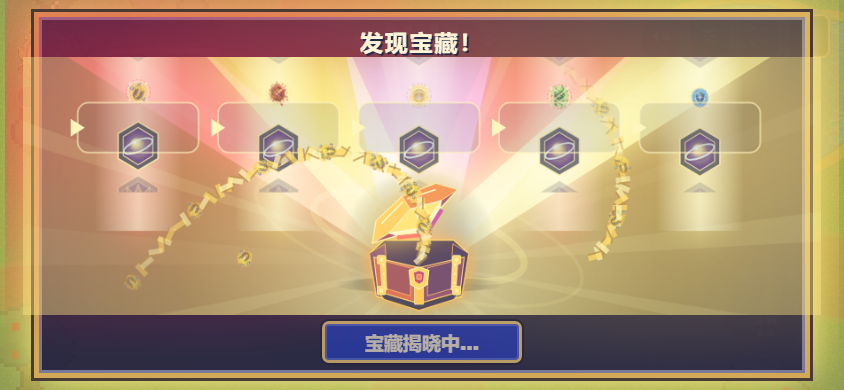
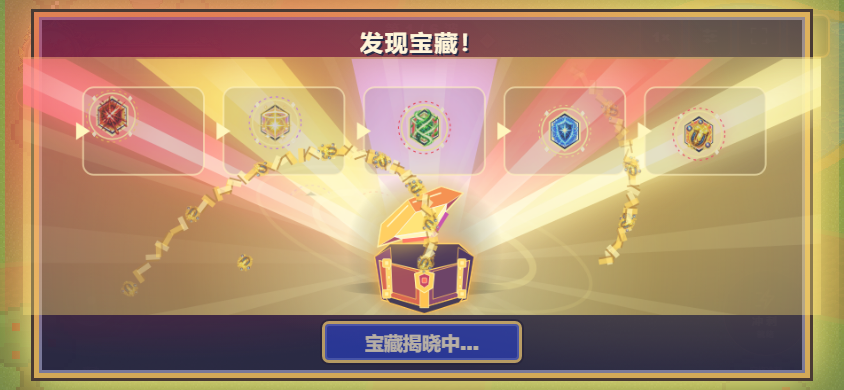
重新设计宝箱

diff --git a/src/treasure-canvas.ts b/src/treasure-canvas.ts
@@ -1,6 +1,6 @@
 import { treasurePresentation, type TreasureCue } from './treasure-presentation';
 // Adapted from the user-supplied astral-relics-reference-rebuild Canvas effect.
-export function createTreasureCanvas(canvas: HTMLCanvasElement, titles: string[], artUrls: (string | undefined)[] = [], modal = false, onCue: (cue: TreasureCue, index?: number) => void = () => {}) {
+export function createTreasureCanvas(canvas: HTMLCanvasElement, titles: string[], artUrls: (string | undefined)[] = [], modal = false, onCue: (cue: TreasureCue, index?: number) => void = () => {}, rollingItems: readonly {title:string;artUrl?:string}[] = []) {
 type Tier = 'COMMON' | 'RARE' | 'EPIC' | 'LEGENDARY';
 type IconKind = 'sword' | 'cross' | 'orb' | 'staff' | 'prism' | 'crown' | 'flame' | 'axe' | 'book' | 'shield';
 type Reward = { image?: HTMLImageElement; name: string; tier: Tier; icon: IconKind; color: string; bright: string; dark: string };
@@ -15,6 +15,12 @@ const laneColors = settings.count >= 3 ? ['#ff3158', '#ffca46', '#c967ff', '#ff2
 const CELL = 70;
 
 const rewards: Reward[] = titles.map((name, i) => ({ name, image: artUrls[i] ? Object.assign(new Image(), { src: artUrls[i] }) : undefined, tier: 'COMMON', icon: 'prism', color: laneColors[i], bright: '#fff4a0', dark: '#40117e' }));
+const imageCache=new Map<string,HTMLImageElement>();
+function shuffled<T>(items:readonly T[]):T[]{
+  const copy=[...items];
+  for(let i=copy.length-1;i>0;i--){const j=Math.floor(Math.random()*(i+1));[copy[i],copy[j]]=[copy[j],copy[i]];}
+  return copy;
+}
 
 
 function tierLabel(tier: Tier): string {
@@ -87,9 +93,17 @@ function burst(x: number, y: number, count: number, kind: ParticleKind, colors =
 function begin() {
   if (phase !== 'idle' && phase !== 'result') return;
   const times = stopTimes(selectedCount);
+  // Sample the full catalogue, but decode at most 28 roulette images per chest.
+  const deck:Reward[]=shuffled(rollingItems).slice(0,28).map(item=>{
+    let image=item.artUrl?imageCache.get(item.artUrl):undefined;
+    if(item.artUrl&&!image){image=Object.assign(new Image(),{src:item.artUrl});imageCache.set(item.artUrl,image);}
+    return {...rewards[0],name:item.title,image};
+  });
   reels = Array.from({ length: selectedCount }, (_, i) => {
     const result = rewards[i];
-    const strip = Array.from({ length: 30 + i * 3 }, () => pick(rewards));
+    const laneDeck=shuffled(deck.length?deck:rewards);
+    const length=modal?18+i*2:30+i*3;
+    const strip = Array.from({ length }, (_,j) => ({...laneDeck[j%laneDeck.length],color:result.color}));
     strip.push(result);
     return { result, strip, stoppedAt: times[i], stopped: false, pop: 0, spinOffset: 0, lastTick: -1 };
   });
@@ -576,13 +590,13 @@ function drawModal() {
         const progress=clamp(phaseTime/(reel?.stoppedAt??settings.roll));
         // Constant readable motion followed by a distinct braking phase.
         const travel=progress<.65?progress/.825:1-(1-progress)**2/(.7*.825);
-        const steps=18+i*2;
+        const steps=reel.strip.length-1;
         const offset=travel*steps*cell;
         const base=Math.floor(offset/cell);
         for(let j=base-3;j<=base+3;j++){
           const y=top+j*cell-offset;
-          const index=((j+i)%rewards.length+rewards.length)%rewards.length;
-          const reward=rewards[index];
+          const index=((j%steps)+steps)%steps;
+          const reward=reel.strip[index];
           ctx.globalAlpha=clamp(1-Math.abs(y-top)/(h*.38),.18,1);
           // Same art, centerline and scale on both sides of the final stop.
           drawMedallion(beamX(x,y),y,j===steps?rewards[i]:reward,scale);
@@ -662,5 +676,5 @@ function drawAllWithDelta(dt:number){
 let lastAge = -1;
 if (!modal) begin();
 const draw = (age: number) => { if (lastAge === age) return; const dt = lastAge < 0 ? 0 : Math.max(0, age - lastAge); lastAge = age; let remaining = dt; while (remaining > 0) { const step = Math.min(remaining, 1/60); update(step); remaining -= step; } drawAllWithDelta(dt); };
-return Object.assign(draw, { redraw: () => drawAllWithDelta(0), open: () => { begin(); lastAge = -1; }, glow: () => phase === 'opening' ? .55 + .45 * Math.sin(clamp(phaseTime / settings.opening) * Math.PI) : phase === 'burst' ? .25 + .75 * (1 - smooth(phaseTime / settings.finale)) : phase === 'rolling' ? .38 : phase === 'result' ? .12 : phase === 'intro' ? .15 * smooth(phaseTime / .45) : 0, inspect: () => ({ phase, count:selectedCount, stopped:reels.filter(r=>r.stopped).length, settings }), done: () => phase === 'result' });
+return Object.assign(draw, { redraw: () => drawAllWithDelta(0), open: () => { begin(); lastAge = -1; }, glow: () => phase === 'opening' ? .55 + .45 * Math.sin(clamp(phaseTime / settings.opening) * Math.PI) : phase === 'burst' ? .25 + .75 * (1 - smooth(phaseTime / settings.finale)) : phase === 'rolling' ? .38 : phase === 'result' ? .12 : phase === 'intro' ? .15 * smooth(phaseTime / .45) : 0, inspect: () => ({ phase, count:selectedCount, stopped:reels.filter(r=>r.stopped).length, rollingPoolSize:rollingItems.length, rollingTitles:[...new Set(reels.flatMap(r=>r.strip.slice(0,-1).map(item=>item.name)))], results:reels.map(r=>r.result.name), settings }), done: () => phase === 'result' });
 }

diff --git a/src/treasure-dialog.ts b/src/treasure-dialog.ts
@@ -4,6 +4,7 @@ import type { Combat, CombatEffect } from './combat';
 import type { TreasureReward } from './special-enemies';
 import { createTreasureCanvas } from './treasure-canvas';
 import { upgradeArt } from './upgrade-art';
+import { TREASURE_ROLL_SKILLS } from './progression';
 
 /** Screen-space reward presentation. Simulation stays frozen until explicit continuation. */
 export class TreasureDialog {
@@ -28,7 +29,7 @@ export class TreasureDialog {
     this.deaths=this.deaths.filter(death=>death.active);
     if(!this.presentingDeath&&this.current){this.root.hidden=false;this.lastTime=0;this.frame=requestAnimationFrame(this.tick);}
   }
-  constructor(private combat: Combat, private audio?: GameAudio, private canAnimate: () => boolean = () => true) {
+  constructor(private combat: Combat, private audio?: GameAudio, private canAnimate: () => boolean = () => true, private allowPortrait = false) {
     this.root.className = 'treasure-dialog'; this.root.hidden = true;
     this.root.setAttribute('role','dialog');this.root.setAttribute('aria-modal','true');this.root.setAttribute('aria-labelledby','treasure-title');
     const panel=document.createElement('section');panel.className='treasure-dialog-panel';
@@ -58,7 +59,11 @@ export class TreasureDialog {
         this.root.classList.toggle('is-grand',event.items.length>=3);
         this.heading.textContent=event.source==='first-boss'?'首战告捷 · 金光宝箱':'发现宝藏！';
         const urls=event.items.map(i=>i.skill?upgradeArt({id:i.skill},this.combat.baseAttack,this.combat.runBuild.attacks.map(a=>a.attackId)).illustrations[0]:undefined);
-        this.draw=createTreasureCanvas(this.canvas,event.items.map(i=>i.title),urls,true,(cue,index)=>this.audio?.playTreasure(cue,event.items.length,index));this.draw(0);
+        const rollingItems=TREASURE_ROLL_SKILLS.flatMap(skill=>{
+          const art=upgradeArt(skill,this.combat.baseAttack,this.combat.runBuild.attacks.map(a=>a.attackId));
+          return art.hideIcon||!art.illustrations[0]?[]:[{title:skill.title,artUrl:art.illustrations[0]}];
+        });
+        this.draw=createTreasureCanvas(this.canvas,event.items.map(i=>i.title),urls,true,(cue,index)=>this.audio?.playTreasure(cue,event.items.length,index),rollingItems);this.draw(0);
         this.resizeCanvas();this.draw(0);
         this.deaths=event.source==='first-boss'?[]:this.combat.areaDeaths.filter(d=>d.active&&d.enemyKind==='draft-treasure-runner'&&Math.hypot(d.x-event.x,d.z-event.z)<.1);
         this.arriving=true;this.arrivalAge=0;this.lastTime=0;this.root.classList.add('is-arriving');this.root.style.setProperty('--treasure-entry','0');this.button.disabled=true;this.button.textContent='宝藏正在显现…';
@@ -75,7 +80,7 @@ export class TreasureDialog {
   private tick=(time:number)=>{
     this.frame=0;if(!this.current)return;
     const dt=this.lastTime?Math.min(.25,(time-this.lastTime)/1000):0;this.lastTime=time;
-    const animate=!document.hidden&&innerWidth>=innerHeight&&this.canAnimate();
+    const animate=!document.hidden&&(this.allowPortrait||innerWidth>=innerHeight)&&this.canAnimate();
     if(this.arriving){
       if(animate)this.arrivalAge+=dt;
       const progress=Math.min(1,this.arrivalAge/treasurePresentation(this.current.items.length).transition);

diff --git a/src/treasure-preview.ts b/src/treasure-preview.ts
@@ -1,0 +1,45 @@
+import './style.css';
+import { Combat } from './combat';
+import { PartySystem } from './party';
+import { TreasureDialog } from './treasure-dialog';
+
+const style=document.createElement('style');
+style.textContent=`
+body{margin:0;background:radial-gradient(ellipse at center,#394337,#111d24);min-height:100dvh}
+.treasure-preview-controls{position:fixed;z-index:170;top:max(8px,env(safe-area-inset-top));left:50%;transform:translateX(-50%);display:flex;gap:6px;padding:5px 10px;background:#17182deb;border:1px solid #b39357;border-radius:10px;white-space:nowrap;color:#fff5d9;align-items:center;font:600 14px system-ui}
+.treasure-preview-controls button{min-height:44px;min-width:44px;padding:4px 10px;border:1px solid #9b845c;background:#303451;color:#fff5d9;border-radius:6px;font:inherit;cursor:pointer}
+.treasure-preview-controls button[aria-pressed=true]{background:#9f3c60;border-color:#ffe38f}
+.treasure-dialog{padding-top:76px}
+.treasure-dialog-panel{height:min(820px,calc(100dvh - 94px))}
+.treasure-preview-hint{position:fixed;inset:50% 0 auto;text-align:center;color:#fff4d5;font:600 18px system-ui}
+@media(orientation:portrait){.treasure-preview-hint{z-index:180;background:#17182dee;padding:20px}.treasure-preview-controls{flex-wrap:wrap;justify-content:center;width:90vw}.treasure-preview-controls span{display:none}}
+`;
+document.head.append(style);
+const root=document.getElementById('treasure-preview')!;
+const controls=document.createElement('nav');controls.className='treasure-preview-controls';controls.setAttribute('aria-label','宝箱效果预览');
+const label=document.createElement('span');label.textContent='奖励数量';controls.append(label);
+const combat=new Combat();combat.party=new PartySystem();combat.fusionEnabled=true;combat.automaticSpawning=false;
+const dialog=new TreasureDialog(combat,undefined,()=>true,true);
+let count=5,frame=0;
+const buttons:HTMLButtonElement[]=[];
+function show(n:number){
+ count=n;cancelAnimationFrame(frame);dialog.reset();combat.reset();combat.encounters.beginWave(2);
+ combat.grantTreasure(n,{x:0,z:0});dialog.sync();
+ buttons.forEach((button,i)=>button.setAttribute('aria-pressed',String(i+1===n)));
+ const open=()=>{
+  const button=dialog.root.querySelector('button')!;
+  if(!button.disabled){button.click();frame=0;}
+  else frame=requestAnimationFrame(open);
+ };
+ frame=requestAnimationFrame(open);
+}
+for(let n=1;n<=5;n++){
+ const button=document.createElement('button');button.textContent=`${n}件`;button.onclick=()=>show(n);buttons.push(button);controls.append(button);
+}
+const replay=document.createElement('button');replay.textContent='重新播放';replay.onclick=()=>show(count);controls.append(replay);
+const hint=document.createElement('p');hint.className='treasure-preview-hint';
+const updateHint=()=>{hint.textContent='点击上方数量或「重新播放」查看宝箱效果';hint.hidden=!dialog.root.hidden;};
+addEventListener('resize',updateHint);root.append(controls,hint);
+dialog.root.querySelector('button')!.addEventListener('click',()=>requestAnimationFrame(updateHint));
+show(5);updateHint();
+addEventListener('pagehide',()=>{cancelAnimationFrame(frame);dialog.dispose();});

diff --git a/tests/treasure-roulette.spec.ts b/tests/treasure-roulette.spec.ts
@@ -1,0 +1,32 @@
+import {test,expect} from '@playwright/test';
+
+test('formal chest roulette samples the full visual catalogue while keeping actual rewards unchanged',async({page})=>{
+ await page.goto('/');
+ const result=await page.evaluate(async()=>{
+  const [{Combat},{PartySystem},{TreasureDialog},{TREASURE_ROLL_SKILLS}]=await Promise.all([
+   import('/src/combat.ts'),import('/src/party.ts'),import('/src/treasure-dialog.ts'),import('/src/progression.ts'),
+  ]);
+  const combat=new Combat();combat.party=new PartySystem();combat.fusionEnabled=true;combat.reset();
+  const dialog=new TreasureDialog(combat);
+  const results=[];
+  for(let n=1;n<=5;n++){
+   dialog.reset();combat.clearWave();
+   const reward=combat.grantTreasure(n,{x:0,z:0});
+   const before=JSON.stringify({ranks:combat.progression.ranks,gold:combat.goldEarned,items:reward.items});
+   dialog.sync();const draw=(dialog as any).draw;
+   draw.open();draw(0);draw(8);
+   const info=draw.inspect();
+   results.push({n,info,expected:reward.items.map(item=>item.title),unchanged:before===JSON.stringify({ranks:combat.progression.ranks,gold:combat.goldEarned,items:reward.items})});
+  }
+  dialog.dispose();
+  return {results,catalogue:TREASURE_ROLL_SKILLS.map(s=>s.title)};
+ });
+ for(const sample of result.results){
+  expect(sample.info.rollingPoolSize).toBeGreaterThan(20);
+  expect(sample.info.rollingTitles.length).toBeGreaterThan(10);
+  expect(sample.info.rollingTitles.every((title:string)=>result.catalogue.includes(title))).toBe(true);
+  expect(sample.info.rollingTitles.some((title:string)=>!sample.expected.includes(title))).toBe(true);
+  expect(sample.info.results).toEqual(sample.expected);expect(sample.info.stopped).toBe(sample.n);
+  expect(sample.unchanged).toBe(true);
+ }
+});

diff --git a/vite.config.ts b/vite.config.ts
@@ -6,7 +6,7 @@ export default defineConfig({
   build: {
     target: ['es2020', 'safari15'],
     rolldownOptions: {
-      input: { main: 'index.html', crownthorn: 'crownthorn-preview.html', bossSkills: 'boss-skills-preview.html', relicEffects: 'relic-effects-preview.html', buildChain: 'build-chain-preview.html', eliteQuake: 'elite-quake-preview.html' },
+      input: { main: 'index.html', crownthorn: 'crownthorn-preview.html', bossSkills: 'boss-skills-preview.html', relicEffects: 'relic-effects-preview.html', buildChain: 'build-chain-preview.html', eliteQuake: 'elite-quake-preview.html', treasure: 'treasure-preview.html' },
       output: { manualChunks: (id) => id.replaceAll('\\', '/').includes('/node_modules/three/') ? 'three' : undefined },
     },
   },

diff --git a/src/progression.ts b/src/progression.ts
@@ -174,6 +174,8 @@ function buildSkillCopy(skill: SkillDefinition): SkillDefinition {
   return skill;
 }
 const RUN_SKILLS = [...BUILD_SKILLS.map(buildSkillCopy), ...RARE_SKILLS, ...PAIR_SKILLS, ...WATER_EVOLUTION_CARDS];
+/** Visual roulette catalogue only; awarding still goes through canGrant. */
+export const TREASURE_ROLL_SKILLS = RUN_SKILLS.filter(skill => skill.id !== 'weapon-pair-fusion');
 const ALL_SKILLS = RUN_SKILLS;
 export const EXPERIENCE = { initial: 8, increment: 4 } as const;
 export const MAX_LEVEL = 1 + SKILLS.reduce((total, skill) => total + skill.maxRank, 0);

diff --git a/treasure-preview.html b/treasure-preview.html
@@ -1,0 +1,5 @@
+<!doctype html>
+<html lang="zh-CN">
+<head><meta charset="UTF-8"><meta name="viewport" content="width=device-width,initial-scale=1,viewport-fit=cover"><title>宝箱效果预览</title></head>
+<body><main id="treasure-preview"></main><script type="module" src="/src/treasure-preview.ts"></script></body>
+</html>

diff --git a/docs/CONTENT_DEVELOPMENT.md b/docs/CONTENT_DEVELOPMENT.md
@@ -255,3 +255,7 @@
 宝箱演出调整（2026-10-24）：携宝兽死亡使用 `Combat.areaDeaths` 保留1.2秒淡出，`TreasureDialog.presentingDeath` / `advanceDeath` 与 `Game.frame` 配合，在冻结战斗时仅推进对应死亡特效并重绘场景，结束后再开始弹窗淡入；`SpecialEnemyView` 在死亡阶段隐藏奖励浮字。首通Boss宝箱不追加携宝死亡等待。1–5件均扩大面板和滚动图标，采用连续滚动后减速停靠；3–5件使用更宽亮红/金/紫光柱。透明Canvas横向越过边框，外层光晕允许溢出，按钮保留在最上层。验证：`tests/treasure-dialog-sequence.spec.ts` 覆盖死亡先后、战斗冻结、重开清理、桌面/手机横屏五档滚动和显式继续；既有宝箱/音效用例继续回归。
 
 卡片图标与文案统一：新增/替换卡图后按 [CARD_ART_MANAGEMENT.md](CARD_ART_MANAGEMENT.md) 生成透明主体规范化WebP；`card-art.ts` 统一实际加载地址，`card-copy.ts` 生成短文案，图片大小不随说明长度变化。原数值与详细规则仍来自原内容定义。
+
+宝箱专用预览：访问 /treasure-preview.html，入口 src/treasure-preview.ts，复用 TreasureDialog 和实际奖励图标，默认自动播放五件，顶部切换1–5件及重播。使用独立临时 Combat，不写入存档；仅预览允许竖屏播放，正式游戏保留横屏门禁。
+
+宝箱随机滚动图鉴：Progression 的 TREASURE_ROLL_SKILLS 提供全部内容卡片身份，TreasureDialog 排除隐藏/无图项后传给 createTreasureCanvas；每箱从完整图鉴随机取最多28张滚动图，轨道共享图片，每条轨道末项锁定真实奖励。动画使用独立视觉随机，不调用 Combat.random、不重新授奖。实际掉落继续由 Combat.grantTreasure 逐件校验资格，不能因滚动画面绕过三槽、满级、前置或模式限制。验证 tests/treasure-roulette.spec.ts。

diff --git a/AGENTS.md b/AGENTS.md
@@ -44,3 +44,5 @@
 
 
 战斗捕捉/幻兽囚坊：`src/enemy-capture.ts`、`src/capture-hud.ts`、`src/capture-collection.ts`、`src/prison-view.ts`、`src/prison-scene.ts`；完整接入、规则和验证见 [CAPTURE_PRISON.md](docs/CAPTURE_PRISON.md)。可捕捉刷出概率与用户历史见 `src/capture-spawns.ts` / `src/capture-rules.ts`。正式闯关/无尽中抽中资格的个体40%血量转可捕捉并免伤（`Combat.isCaptureReady` / `src/capture-rules.ts`），可捕捉敌人不伤害角色，封印符无限，靠近E与点击封印；小游戏合格/优秀判定、不合格重试与加成见 `src/enemy-capture.ts`，界面见 `src/capture-hud.ts`；最终成功或失败均离场，成功永久收藏接局外劳作，囚坊同种入住数量受实际捕获数量限制；旧模式不启用。
+
+宝箱特效独立预览：treasure-preview.html / src/treasure-preview.ts，复用正式 TreasureDialog，支持1–5件切换及重播。
